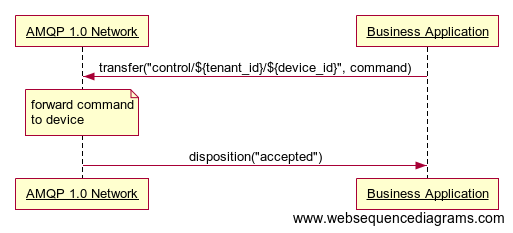
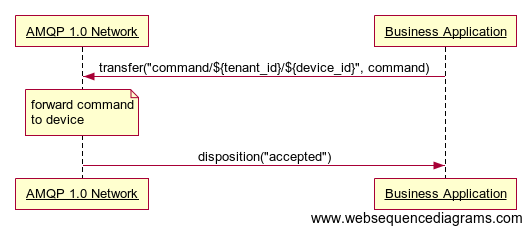
[#1073] Document the changed command endpoint prefix.

diff --git a/site/documentation/content/api/Command-And-Control-API.md b/site/documentation/content/api/Command-And-Control-API.md
@@ -26,12 +26,16 @@ Business Applications use this operation to send a command to a device for which
 **Preconditions**
 
 1. The *Business Application* has established an AMQP connection with the AMQP 1.0 Network.
-2. The *Business Application* has established an AMQP link in role *sender* with the target address `control/${tenant_id}`, where `${tenant_id}` is the ID of the tenant that the device belongs to.
-This link is used by the *Business Application* to send command messages. The `to` property of the command messages contains the target address `control/${tenant_id}/${device_id}`, where `${device_id}` is the ID of the device to send the message to.
+2. The *Business Application* has established an AMQP link in role *sender* with the target address `command/${tenant_id}`, where `${tenant_id}` is the ID of the tenant that the device belongs to.
+This link is used by the *Business Application* to send command messages. The `to` property of the command messages contains the target address `command/${tenant_id}/${device_id}`, where `${device_id}` is the ID of the device to send the message to.
 
 The following sequence diagram illustrates the establishment of the required link:
 
 ![Send One-Way Command Preconditions](../command_control_send_preconditions.png)
+
+{{% note %}}
+Previous versions of Hono used `control` instead of `command` as address prefix for the sender link. Using the `control` prefix is still supported but deprecated. 
+{{% /note %}}
 
 **Message Format**
 
@@ -39,7 +43,7 @@ The following table provides an overview of the properties the *Business Applica
 
 | Name             | Mandatory | Location                 | Type         | Description |
 | :--------------- | :-------: | :----------------------- | :----------- | :---------- |
-| *to*             | yes       | *properties*             | *string*     | MUST contain the target address `control/${tenant_id}/${device_id}` of the message, where `${device_id}` is the ID of the device to send the message to. |
+| *to*             | yes       | *properties*             | *string*     | MUST contain the target address `command/${tenant_id}/${device_id}` of the message, where `${device_id}` is the ID of the device to send the message to. |
 | *subject*        | yes       | *properties*             | *string*     | The name of the command to be executed by the device. |
 | *content-type*   | no        | *properties*             | *string*     | If present, MUST contain a *Media Type* as defined by [RFC 2046](https://tools.ietf.org/html/rfc2046) which describes the semantics and format of the command's input data contained in the message payload. However, not all protocol adapters will support this property as not all transport protocols provide means to convey this information, e.g. MQTT 3.1.1 has no notion of message headers. |
 | *message-id*     | yes       | *properties*             | *string*     | An identifier that uniquely identifies the message at the sender side. |
@@ -86,10 +90,14 @@ The following sequence diagram illustrates how a malformed command sent by a *Bu
 <a name="receiver-link-precondition"></a>
 
 1. The *Business Application* has established an AMQP connection with the AMQP 1.0 Network.
-2. The *Business Application* has established an AMQP link in role *sender* with the target address `control/${tenant_id}`, where `${tenant_id}` is the ID of the tenant that the device belongs to.
-This link is used by the *Business Application* to send command messages. The `to` property of the command messages contains the target address `control/${tenant_id}/${device_id}`, where `${device_id}` is the ID of the device to send the message to.
-3. The *Business Application* has established an AMQP link in role *receiver* with the source address `control/${tenant_id}/${reply_id}`.
+2. The *Business Application* has established an AMQP link in role *sender* with the target address `command/${tenant_id}`, where `${tenant_id}` is the ID of the tenant that the device belongs to.
+This link is used by the *Business Application* to send command messages. The `to` property of the command messages contains the target address `command/${tenant_id}/${device_id}`, where `${device_id}` is the ID of the device to send the message to.
+3. The *Business Application* has established an AMQP link in role *receiver* with the source address `command_response/${tenant_id}/${reply_id}`.
 This link is used by the *Business Application* to receive the response to the command from the device. This link’s source address is also used as the `reply-to` address for the request messages. The `${reply_id}` may be any [arbitrary string]({{< relref "#strategies-for-building-the-receiver-link-address" >}}) chosen by the application.
+
+{{% note %}}
+Previous versions of Hono used `control` instead of `command` and `command_response` as address prefix for both the sender and receiver link. Using the `control` prefix is still supported but deprecated. Note that when using the old prefix, the sender link address must be `control/${tenant_id}/${device_id}` and that gateway agnostic addressing of devices is not supported for commands sent on this link.  
+{{% /note %}}
 
 **Link establishment**
 
@@ -107,7 +115,7 @@ The following table provides an overview of the properties the *Business Applica
 
 | Name             | Mandatory | Location                 | Type         | Description |
 | :--------------- | :-------: | :----------------------- | :----------- | :---------- |
-| *to*             | yes       | *properties*             | *string*     | MUST contain the target address `control/${tenant_id}/${device_id}` of the message, where `${device_id}` is the ID of the device to send the message to. |
+| *to*             | yes       | *properties*             | *string*     | MUST contain the target address `command/${tenant_id}/${device_id}` of the message, where `${device_id}` is the ID of the device to send the message to. |
 | *subject*        | yes       | *properties*             | *string*     | MUST contain the command name to be executed by a device. |
 | *content-type*   | no        | *properties*             | *string*     | If present, MUST contain a *Media Type* as defined by [RFC 2046](https://tools.ietf.org/html/rfc2046) which describes the semantics and format of the command's input data contained in the message payload. However, not all protocol adapters will support this property as not all transport protocols provide means to convey this information, e.g. MQTT 3.1.1 has no notion of message headers. |
 | *correlation-id* | no        | *properties*             | *message-id* | If present, MUST contain an ID used to correlate a response message to the original request. If set, it is used as the *correlation-id* property in the response, otherwise the value of the *message-id* property is used. |

diff --git a/site/documentation/content/user-guide/http-adapter.md b/site/documentation/content/user-guide/http-adapter.md
@@ -417,7 +417,7 @@ Example:
 ## Sending a Response to a Command (authenticated Device)
 
 * Since: 0.7
-* URI: `/control/res/${commandRequestId}` or `/control/res/${commandRequestId}?hono-cmd-status=${status}`
+* URI: `/command/res/${commandRequestId}` or `/command/res/${commandRequestId}?hono-cmd-status=${status}`
 * Method: `POST`
 * Request Headers:
   * (optional) `Authorization`: The device's *auth-id* and plain text password encoded according to the [Basic HTTP authentication scheme](https://tools.ietf.org/html/rfc7617). If not set, the adapter expects the device to present a client certificate as part of the TLS handshake during connection establishment.
@@ -439,13 +439,17 @@ Example:
 
 This is the preferred way for devices to respond to commands. It is available only if the protocol adapter is configured to require devices to authenticate (which is the default).
 
+{{% note %}}
+Previous versions of Hono used `control` instead of `command` as prefix in the command response URI. Using the `control` prefix is still supported but deprecated. 
+{{% /note %}}
+
 **Example**
 
 Send a response to a previously received command with the command-request-id `req-id-uuid` for device `4711`:
 
     curl -i -X POST -u sensor1@DEFAULT_TENANT:hono-secret -H 'Content-Type: application/json' \
      --data-binary '{"brightness-changed": true}' \
-     http://127.0.0.1:8080/control/res/req-id-uuid?hono-cmd-status=200
+     http://127.0.0.1:8080/command/res/req-id-uuid?hono-cmd-status=200
 
     HTTP/1.1 202 Accepted
     Content-Length: 0
@@ -453,7 +457,7 @@ Send a response to a previously received command with the command-request-id `re
 ## Sending a Response to a Command (unauthenticated Device)
 
 * Since: 0.7
-* URI: `/control/res/${tenantId}/${deviceId}/${commandRequestId}` or `/control/res/${tenantId}/${deviceId}/${commandRequestId}?hono-cmd-status=${status}`
+* URI: `/command/res/${tenantId}/${deviceId}/${commandRequestId}` or `/command/res/${tenantId}/${deviceId}/${commandRequestId}?hono-cmd-status=${status}`
 * Method: `PUT`
 * Request Headers:
   * (optional) `Content-Type`: A media type describing the semantics and format of the payload contained in the request body (the outcome of processing the command). (since 0.7)
@@ -475,13 +479,16 @@ Send a response to a previously received command with the command-request-id `re
 
 This resource MUST be used by devices that have not authenticated to the protocol adapter. Note that this requires the `HONO_HTTP_AUTHENTICATION_REQUIRED` configuration property to be explicitly set to `false`.
 
+{{% note %}}
+Previous versions of Hono used `control` instead of `command` as prefix in the command response URI. Using the `control` prefix is still supported but deprecated. 
+{{% /note %}}
 
 **Examples**
 
 Send a response to a previously received command with the command-request-id `req-id-uuid` for the unauthenticated device `4711`:
 
     curl -i -X PUT -H 'Content-Type: application/json' --data-binary '{"brightness-changed": true}' \
-     http://127.0.0.1:8080/control/res/DEFAULT_TENANT/4711/req-id-uuid?hono-cmd-status=200
+     http://127.0.0.1:8080/command/res/DEFAULT_TENANT/4711/req-id-uuid?hono-cmd-status=200
 
     HTTP/1.1 202 Accepted
     Content-Length: 0
@@ -490,7 +497,7 @@ Send a response to a previously received command with the command-request-id `re
 ## Sending a Response to a Command (authenticated Gateway)
 
 * Since: 0.7
-* URI: `/control/res/${tenantId}/${deviceId}/${commandRequestId}` or `/control/res/${tenantId}/${deviceId}/${commandRequestId}?hono-cmd-status=${status}`
+* URI: `/command/res/${tenantId}/${deviceId}/${commandRequestId}` or `/command/res/${tenantId}/${deviceId}/${commandRequestId}?hono-cmd-status=${status}`
 * Method: `PUT`
 * Request Headers:
   * (optional) `Authorization`: The gateway's *auth-id* and plain text password encoded according to the [Basic HTTP authentication scheme](https://tools.ietf.org/html/rfc7617). If not set, the adapter expects the gateway to present a client certificate as part of the TLS handshake during connection establishment.
@@ -522,7 +529,7 @@ Send a response to a previously received command with the command-request-id `re
 
     curl -i -X PUT -u gw@DEFAULT_TENANT:gw-secret -H 'Content-Type: application/json' \
      --data-binary '{"brightness-changed": true}' \
-     http://127.0.0.1:8080/control/res/DEFAULT_TENANT/4712/req-id-uuid?hono-cmd-status=200
+     http://127.0.0.1:8080/command/res/DEFAULT_TENANT/4712/req-id-uuid?hono-cmd-status=200
 
     HTTP/1.1 202 Accepted
     Content-Length: 0

diff --git a/site/documentation/content/user-guide/mqtt-adapter.md b/site/documentation/content/user-guide/mqtt-adapter.md
@@ -187,9 +187,13 @@ For *Request/Response* commands, devices send their responses to commands by mea
 
 The following sections define the topic filters/names to use for subscribing to and responding to commands. The following *shorthand* versions of topic path segments are supported:
 
-* `c` instead of `control`
+* `c` instead of `command`
 * `q` instead of `req`
 * `s` instead of `res`
+
+{{% note %}}
+Previous versions of Hono used `control` instead of `command` as topic prefix. Using the `control` prefix is still supported but deprecated. 
+{{% /note %}}
 
 The following variables are used:
 
@@ -207,29 +211,29 @@ The MQTT adapter currently does not require nor use any properties.
 
 An authenticated device MUST use the following topic filter to subscribe to commands:
 
-* `control/+/+/req/#`
+* `command/+/+/req/#`
 
 **Example**
 
-    mosquitto_sub -v -u 'sensor1@DEFAULT_TENANT' -P hono-secret -t control/+/+/req/#
+    mosquitto_sub -v -u 'sensor1@DEFAULT_TENANT' -P hono-secret -t command/+/+/req/#
 
 The adapter will then publish commands for the device to topic:
 
-* for *Request/Response* commands: `control///req/${req-id}/${command}[/*][/property-bag]`
-* for *one-way* commands: `control///req//${command}[/*][/property-bag]`
+* for *Request/Response* commands: `command///req/${req-id}/${command}[/*][/property-bag]`
+* for *one-way* commands: `command///req//${command}[/*][/property-bag]`
 
 
 **Example**
 
 For example, if the [HonoExampleApplication]({{< relref "/dev-guide/java_client_consumer.md" >}}) was started, after the `ttd` event requested by the subscription of mosquitto_sub, it layers a command that arrives as follows:  
 
-    control///q/1010f8ab0b53-bd96-4d99-9d9c-56b868474a6a/setBrightness {
+    command///q/1010f8ab0b53-bd96-4d99-9d9c-56b868474a6a/setBrightness {
        "brightness" : 79
     }
 
 If the command is a *one-way* command, it will arrive as follows:
 
-    control///q//setBrightness {
+    command///q//setBrightness {
        "brightness" : 79
     }
 
@@ -238,19 +242,19 @@ If the command is a *one-way* command, it will arrive as follows:
 
 An unauthenticated device MUST use the following topic filter to subscribe to commands:
 
-* `control/${tenant-id}/${device-id}/req/#`
+* `command/${tenant-id}/${device-id}/req/#`
 
 **Example**
 
-    mosquitto_sub -v -t control/DEFAULT_TENANT/4711/req/#
+    mosquitto_sub -v -t command/DEFAULT_TENANT/4711/req/#
 
 The adapter will then publish *Request/Response* commands for the device to topic:
 
-* `control/${tenant-id}/${device-id}/req/${req-id}/${command}[/*][/property-bag]`
+* `command/${tenant-id}/${device-id}/req/${req-id}/${command}[/*][/property-bag]`
 
 and *one-way* commands to the topic:
 
-* `control/${tenant-id}/${device-id}/req//${command}[/*][/property-bag]`
+* `command/${tenant-id}/${device-id}/req//${command}[/*][/property-bag]`
 
 (For an example of the incoming command see above at authenticated device)
 
@@ -258,25 +262,25 @@ and *one-way* commands to the topic:
 
 An authenticated device MUST send the response to a previously received command to the following topic:
 
-* `control///res/${req-id}/${status}`
+* `command///res/${req-id}/${status}`
 
 **Example**
 
 After a command has arrived as in the above example, you send a response using the arrived `${req-id}`:
 
-    mosquitto_pub -u 'sensor1@DEFAULT_TENANT' -P hono-secret -t control///res/1010f8ab0b53-bd96-4d99-9d9c-56b868474a6a/200 -m '{"lumen": 200}'
+    mosquitto_pub -u 'sensor1@DEFAULT_TENANT' -P hono-secret -t command///res/1010f8ab0b53-bd96-4d99-9d9c-56b868474a6a/200 -m '{"lumen": 200}'
 
 ### Sending a Response to a Command (unauthenticated Device)
 
 An unauthenticated device MUST send the response to a previously received command to the following topic:
 
-* `control/${tenant-id}/${device-id}/res/${req-id}/${status}`
+* `command/${tenant-id}/${device-id}/res/${req-id}/${status}`
 
 **Example**
 
 After a command has arrived as in the above example, you send a response using the arrived `${req-id}`:
 
-    mosquitto_pub -t control/DEFAULT_TENANT/4711/res/1010f8ab0b53-bd96-4d99-9d9c-56b868474a6a/200 -m '{"lumen": 200}'
+    mosquitto_pub -t command/DEFAULT_TENANT/4711/res/1010f8ab0b53-bd96-4d99-9d9c-56b868474a6a/200 -m '{"lumen": 200}'
 
 ## Downstream Meta Data
 

diff --git a/site/documentation/content/concepts/command-and-control.md b/site/documentation/content/concepts/command-and-control.md
@@ -23,7 +23,7 @@ The following sequence diagrams give an overview of a device connecting via HTTP
 
 With the *hono-ttd* request parameter in (1) the device indicates it will stay connected for max. 30 seconds. In the shown example this means that it can handle the response to the HTTP request for up to 30 seconds before considering the request being expired. 
 
-Internally the application is notified that there is a time interval of 30 seconds to send a command (see [Device notifications]({{< relref "device-notifications.md" >}}) for details).  This notification will be consumed by the application (2) and it now tries to send a command (3) to the device at the given address `control/TENANT/4711`.
+Internally the application is notified that there is a time interval of 30 seconds to send a command (see [Device notifications]({{< relref "device-notifications.md" >}}) for details).  This notification will be consumed by the application (2) and it now tries to send a command (3) to the device at the given address `command/TENANT/4711`.
 If the device is not connected or the time interval is expired already, there is no such link open and the application would get no credits so send the command.
 
 The HTTP Adapter gets the command and writes it in the response of the devices `send event` (4), if the request was successful (status 2xx). The HTTP Adapter sets the following response headers and optionally a payload.
@@ -38,7 +38,7 @@ The *hono-cmd* is the command that should be executed by the device. Typically t
 
 **For Request/Response commands**:
 
-The *hono-cmd-req-id* is needed for the command response to correlate it. It has to be sent back from the device to the adapter in a following operation (5). 
+The *hono-cmd-req-id* response header is needed for the command response to correlate it. It has to be sent back from the device to the adapter in a following operation (5). 
  
 The device needs to respond to the command (5), to inform the business application about the outcome of executing the command. For this purpose 
 specific URIs are defined in [HTTP Adapter]({{< relref "/user-guide/http-adapter.md#sending-a-response-to-a-previously-received-command" >}}).
@@ -53,21 +53,21 @@ that was opened by the application. If the response reached the application, the
 
 When the device is connected to the MQTT Adapter it receives *Request/Response* commands on the topic:
 
-* `control/[${tenant}]/[${device-id}]/req/${req-id}/${command}`
+* `command/[${tenant}]/[${device-id}]/req/${req-id}/${command}`
 
 and *one-way* commands on the topic:
 
-* `control/[${tenant}]/[${device-id}]/req//${command}`
+* `command/[${tenant}]/[${device-id}]/req//${command}`
 
 Authenticated devices typically subscribe to
 
-* `control/+/+/req/#`
+* `command/+/+/req/#`
 
 while unauthenticated devices have to fully specify their `${tenant}` and `${device-id}` during the subscription.
 
 The response of the command will be sent by the device to 
 
-* `control/[${tenant}]/[${device-id}]/res/${req-id}/${status}`
+* `command/[${tenant}]/[${device-id}]/res/${req-id}/${status}`
 
 If the device is authenticated, the `${tenant}` and `${device-id}` are left empty (resulting in 3 subsequent `/`s).
 
@@ -85,8 +85,8 @@ The following diagrams show the message flow for commands over the MQTT adapter:
 
 When a device connected to the AMQP adapter wants to receive commands from the adapter, it opens a receiver link specifying the following source address:
 
-* `control` for authenticated devices
-* `control/${tenant}/${device-id}` for unauthenticated devices
+* `command` for authenticated devices
+* `command/${tenant}/${device-id}` for unauthenticated devices
 
 Once the receiver link is opened, the AMQP adapter sends command messages to devices through the link. The *subject* property of the request message contains the actual command to be executed on the device.
 

diff --git a/site/documentation/content/user-guide/amqp-adapter.md b/site/documentation/content/user-guide/amqp-adapter.md
@@ -254,8 +254,12 @@ Devices send their responses to commands by means of sending an AMQP message wit
 
 A device MUST use the following source address in its *attach* frame to open a link for receiving commands:
 
-* `control` (authenticated device)
-* `control/${tenant}/${device-id}` (unauthenticated device)
+* `command` (authenticated device)
+* `command/${tenant}/${device-id}` (unauthenticated device)
+
+{{% note %}}
+Previous versions of Hono used `control` instead of `command` as address prefix. Using the `control` prefix is still supported but deprecated. 
+{{% /note %}}
 
 The adapter supports *AT LEAST ONCE* delivery of command messages only. A client therefore MUST use `unsettled` for the *snd-settle-mode* and `first` for the *rcv-settle-mode* fields of its *attach* frame during link establishment. All other combinations are not supported and result in the termination of the link.
 

diff --git a/site/homepage/content/release-notes.md b/site/homepage/content/release-notes.md
@@ -38,6 +38,10 @@ title = "Release Notes"
   by [Hono's HTTP based management API](https://www.eclipse.org/hono/docs/latest/api/device-registry-v1.yaml) instead.
   Several of the formerly mandatory to include properties of the request and response messages have
   been made optional or removed altogether. Existing clients should not be affected by these changes, though.
+* The `control` prefix in the northbound and southbound Command & Control endpoints has been renamed to `command`. 
+  The endpoint names with the `control` prefix are still supported but deprecated. The northbound endpoint for
+  *business applications* to receive command responses has the `command_response` prefix now. The old `control` prefix
+  for the receiver address is also still supported but deprecated. 
 
 
 ## 1.0-M4

diff --git a/site/homepage/content/getting-started.md b/site/homepage/content/getting-started.md
@@ -291,7 +291,7 @@ If the received command was *not* a *one-way command*, and the device has receiv
 
     curl -i -X POST -u sensor1@DEFAULT_TENANT:hono-secret -H 'Content-Type: application/json' \
     -H 'hono-cmd-status: 200' --data-binary '{"success": true}' \
-    http://127.0.0.1:8080/control/res/10117f669c12-09ef-416d-88c1-1787f894856d
+    http://127.0.0.1:8080/command/res/10117f669c12-09ef-416d-88c1-1787f894856d
     
     HTTP/1.1 202 Accepted
     Content-Length: 0
